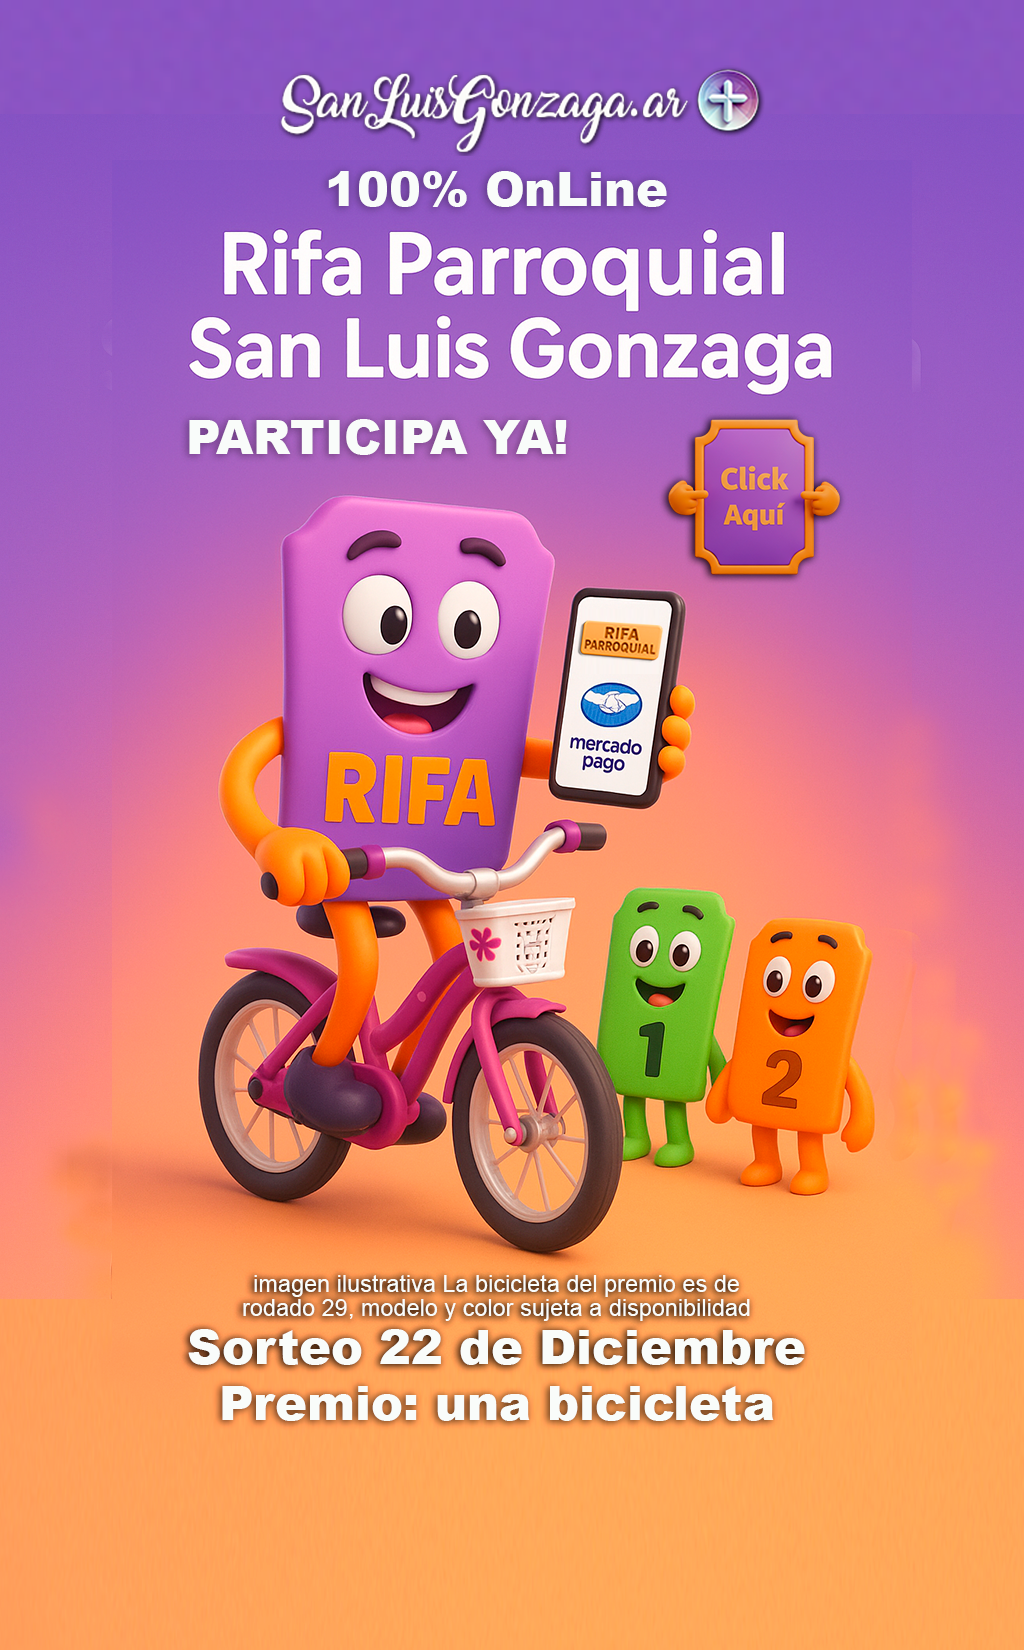
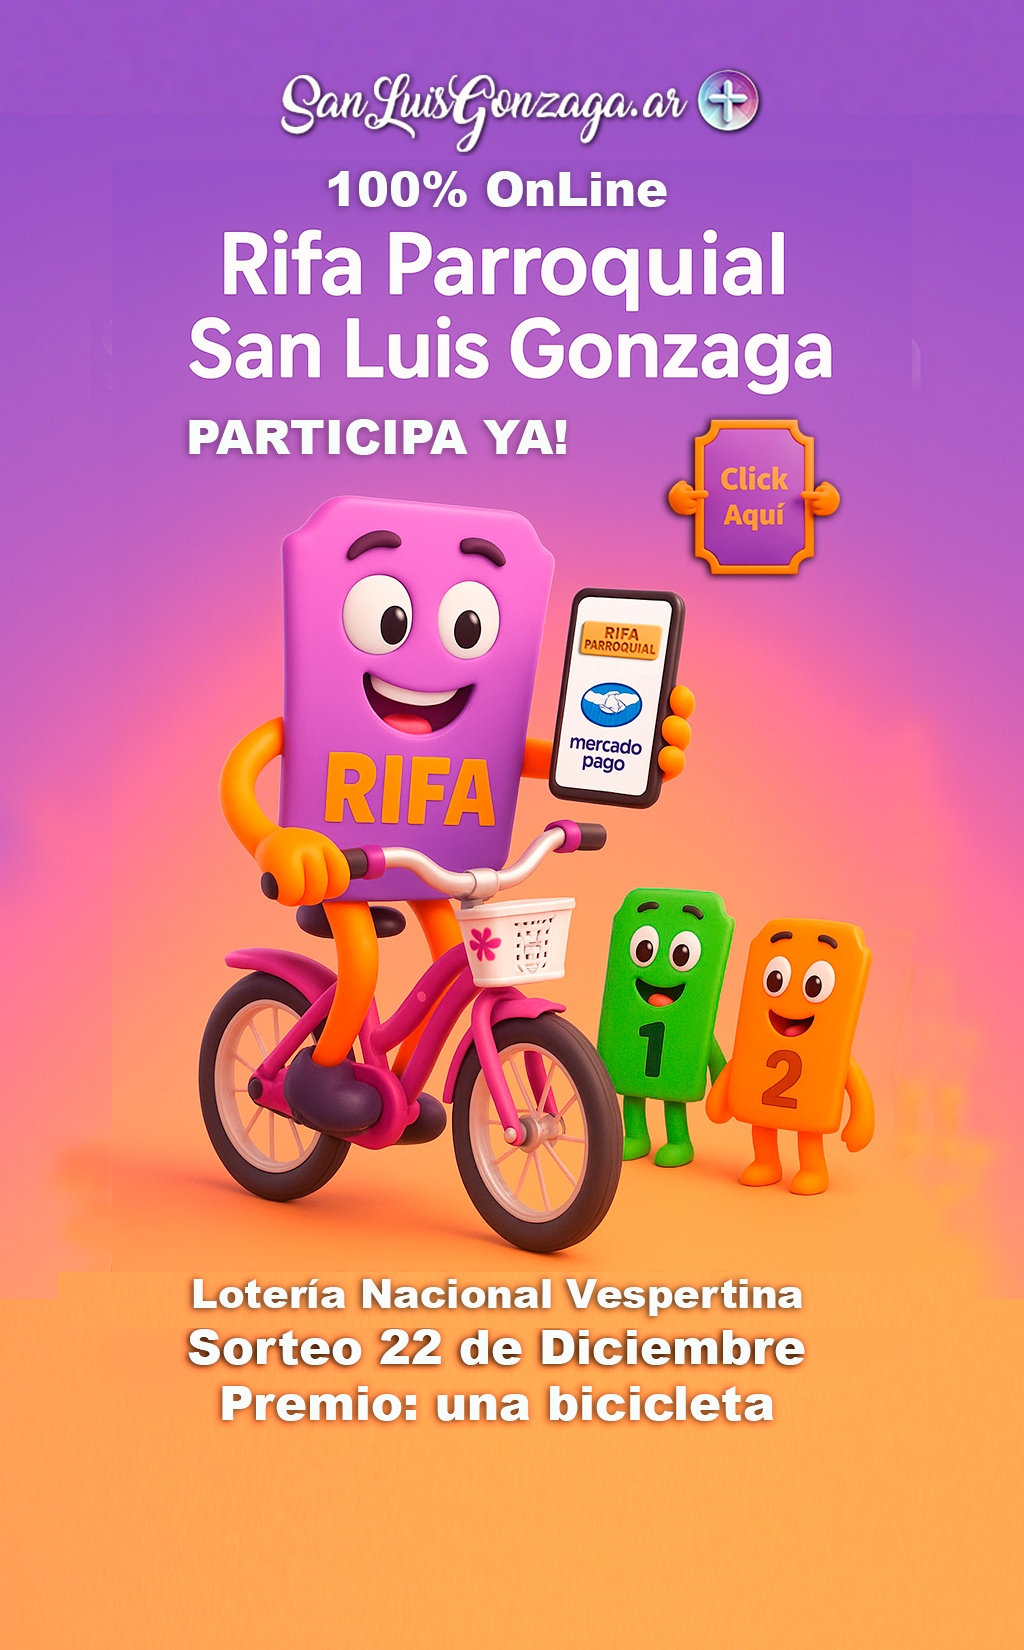
loteria naciona vespertina

diff --git a/ticket.html b/ticket.html
@@ -614,7 +614,7 @@ const db = firebase.firestore();
 
         <div class="prizes-section">
           <div class="prizes-title">
-            🎁 Premios del Sorteo
+            🎁 Premio del Sorteo
           </div>
           <div class="prize-item">
             <strong>Premio:</strong> Bicicleta rodado 29
@@ -623,12 +623,15 @@ const db = firebase.firestore();
           <div class="prize-item" style="margin-top: 10px; padding-top: 10px; border-top: 1px dashed #FF9800;">
             <strong>Valor del Número:</strong> $2.500
           </div>
+          <!-- <div class="prize-item" style="margin-top: 10px; padding-top: 10px; border-top: 1px dashed #FF9800;">
+            <strong>Fecha:</strong> 22 de Diciembre 2025 - Lotería Nacional Vespertina
+          </div> -->
         </div>
       </div>
 
       <div class="ticket-footer">
         <div class="sorteo-date">
-          📅 Sorteo: 22 de Diciembre 2025
+          📅 Sorteo: 22 de Diciembre 2025 - Lotería Nacional Vespertina
         </div>
 
         <div class="qr-container">

diff --git a/rifa.js b/rifa.js
@@ -1256,7 +1256,7 @@ async function enviarEmailCertificado(numeroData) {
       dni: numeroData.dni || 'N/A',
       nro_op: numeroData.nro_op || 'N/A',
       link_ticket: `https://sanluisgonzaga.ar/ticket.html?id=${numeroData.id}`,
-      fecha_sorteo: '22 de Diciembre 2025'
+      fecha_sorteo: '22 de Diciembre 2025 - Loteria Nacional Vespertina'
     };
 
     console.log('📤 Enviando con parámetros:', templateParams);

diff --git a/encryption.js b/encryption.js
@@ -227,7 +227,7 @@ async function renderizarHeaderRifa() {
       <h3>Sorteo</h3>
       <ul class="prize-list">
       <li><strong>Premio:</strong> Bicicleta</li>
-      <li><strong>Fecha:</strong> 22 Diciembre - Lotería Nacional</li>
+      <li><strong>Fecha:</strong> 22 Diciembre - Lotería Nacional Vespertina</li>
       </ul>
       <div class="prize-value">$2.500</div>
       </div>
